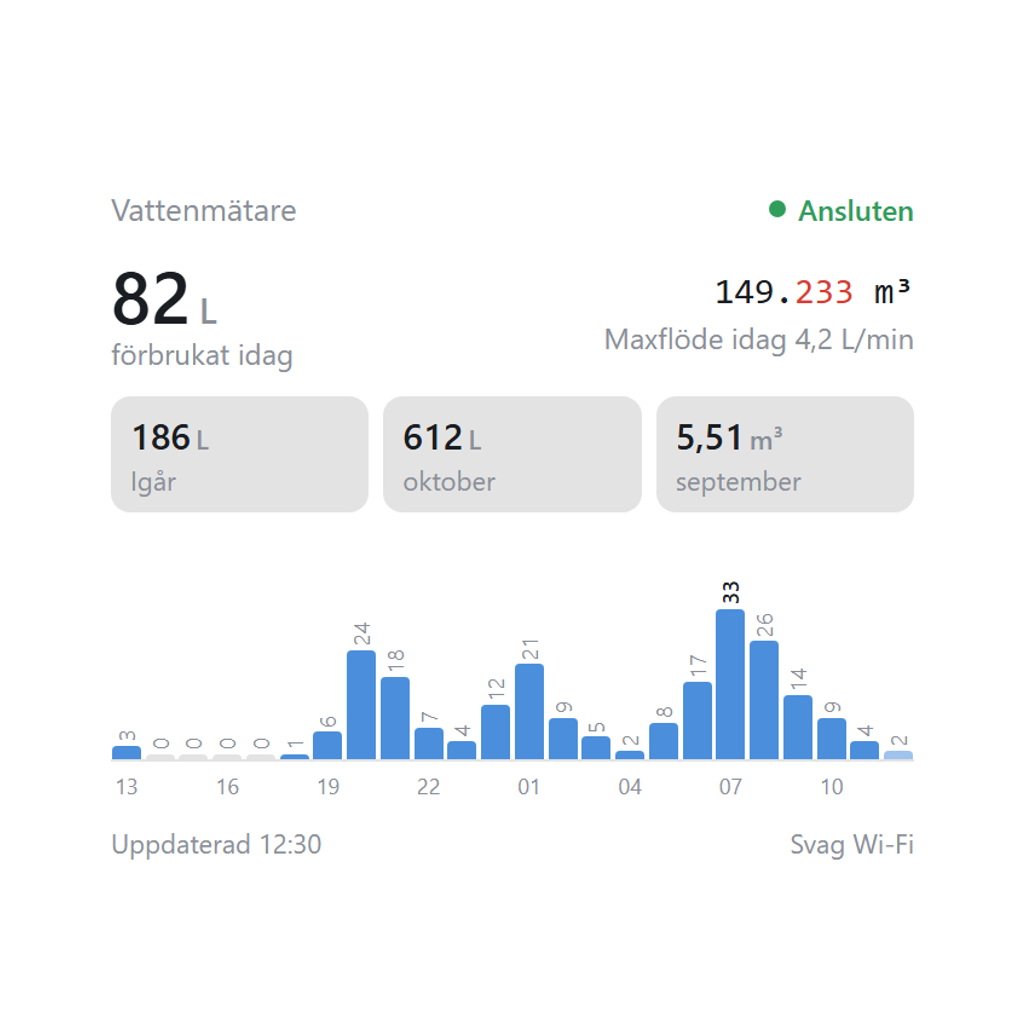
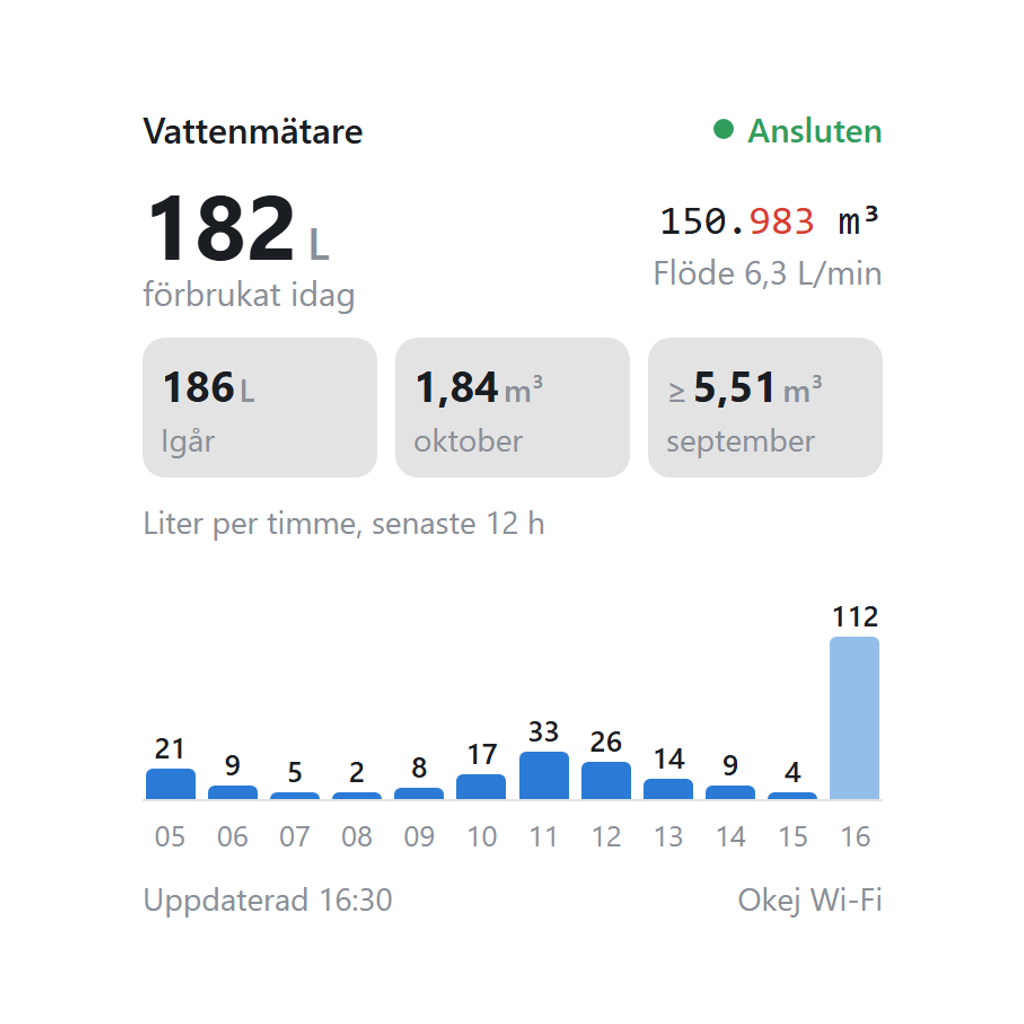
Widget: larger text and last 12 hours
Make the widget easier to read on the dashboard: bigger text throughout,
and the hourly chart now shows the last 12 hours with each value written
upright above its bar and every hour labelled.

diff --git a/widgets/water-meter/public/index.html b/widgets/water-meter/public/index.html
@@ -15,37 +15,39 @@
         padding: 2px 4px;
       }
       .wm-head, .wm-main, .wm-foot { display: flex; justify-content: space-between; align-items: center; gap: 8px; }
-      .wm-name { font-size: 13px; color: var(--wm-muted); white-space: nowrap; overflow: hidden; text-overflow: ellipsis; }
-      .wm-status { font-size: 12px; font-weight: 600; display: inline-flex; align-items: center; gap: 5px; white-space: nowrap; }
-      .wm-status::before { content: ""; width: 7px; height: 7px; border-radius: 50%; background: currentColor; }
+      .wm-name { font-size: 16px; font-weight: 500; white-space: nowrap; overflow: hidden; text-overflow: ellipsis; }
+      .wm-status { font-size: 15px; font-weight: 600; display: inline-flex; align-items: center; gap: 6px; white-space: nowrap; }
+      .wm-status::before { content: ""; width: 9px; height: 9px; border-radius: 50%; background: currentColor; }
       .wm-status.ok { color: var(--wm-ok); }
       .wm-status.warn { color: var(--wm-warn); }
       .wm-status.bad { color: var(--wm-bad); }
       .wm-today { display: grid; }
-      .wm-big { font-size: 30px; font-weight: 600; line-height: 1.1; font-variant-numeric: tabular-nums; }
-      .wm-big small { font-size: 15px; font-weight: 500; color: var(--wm-muted); margin-left: 3px; }
-      .wm-label { font-size: 12px; color: var(--wm-muted); }
+      .wm-big { font-size: 40px; font-weight: 700; line-height: 1.05; font-variant-numeric: tabular-nums; }
+      .wm-big small { font-size: 20px; font-weight: 500; color: var(--wm-muted); margin-left: 4px; }
+      .wm-label { font-size: 15px; color: var(--wm-muted); }
       .wm-side { display: grid; justify-items: end; gap: 2px; text-align: right; }
-      .wm-total { font-family: ui-monospace, "SF Mono", Menlo, Consolas, monospace; font-size: 15px; font-variant-numeric: tabular-nums; }
+      .wm-total { font-family: ui-monospace, "SF Mono", Menlo, Consolas, monospace; font-size: 18px; font-variant-numeric: tabular-nums; }
       .wm-total .red { color: var(--wm-bad); }
 
-      .wm-periods { display: grid; grid-template-columns: repeat(3, minmax(0, 1fr)); gap: 6px; }
-      .wm-period { display: grid; gap: 1px; padding: 6px 8px; border-radius: 8px; background: var(--wm-line); min-width: 0; }
-      .wm-period b { font-size: 15px; font-weight: 600; font-variant-numeric: tabular-nums; white-space: nowrap; }
-      .wm-period b small { font-size: 11px; font-weight: 500; color: var(--wm-muted); margin-left: 2px; }
-      .wm-period span { font-size: 11px; color: var(--wm-muted); white-space: nowrap; overflow: hidden; text-overflow: ellipsis; }
+      .wm-periods { display: grid; grid-template-columns: repeat(3, minmax(0, 1fr)); gap: 8px; }
+      .wm-period { display: grid; gap: 2px; padding: 8px 8px; border-radius: 10px; background: var(--wm-line); min-width: 0; }
+      .wm-period b { font-size: 19px; font-weight: 700; font-variant-numeric: tabular-nums; white-space: nowrap; }
+      .wm-period b small { font-size: 14px; font-weight: 500; color: var(--wm-muted); margin-left: 2px; }
+      .wm-period b small.wm-min, .wm-big small.wm-min { margin: 0 2px 0 0; }
+      .wm-period span { font-size: 14px; color: var(--wm-muted); white-space: nowrap; overflow: hidden; text-overflow: ellipsis; }
 
-      .wm-chart { display: flex; align-items: stretch; gap: 1px; height: 92px; border-bottom: 1px solid var(--wm-line); }
-      .wm-col { flex: 1; min-width: 0; display: flex; flex-direction: column; justify-content: flex-end; align-items: center; gap: 2px; }
-      .wm-col em { font-style: normal; font-size: 9px; line-height: 1; color: var(--wm-muted); font-variant-numeric: tabular-nums; writing-mode: vertical-rl; transform: rotate(180deg); }
-      .wm-col.peak em { color: var(--wm-text); font-weight: 600; }
-      .wm-col i { display: block; width: 100%; max-width: 12px; background: var(--wm-accent); border-radius: 2px 2px 0 0; opacity: 0.85; }
-      .wm-col i.zero { background: var(--wm-line); opacity: 1; }
-      .wm-col.now i { opacity: 0.45; }
-      .wm-hours { display: flex; gap: 1px; margin-top: -6px; }
-      .wm-hours span { flex: 1; min-width: 0; text-align: center; font-size: 9px; color: var(--wm-muted); font-variant-numeric: tabular-nums; }
-      .wm-foot { font-size: 11px; color: var(--wm-muted); }
-      .wm-empty { font-size: 13px; color: var(--wm-muted); text-align: center; padding: 40px 8px; }
+      .wm-chart-title { font-size: 14px; color: var(--wm-muted); }
+      .wm-chart { display: flex; align-items: stretch; gap: 3px; height: 104px; border-bottom: 1px solid var(--wm-line); }
+      .wm-col { flex: 1; min-width: 0; display: flex; flex-direction: column; justify-content: flex-end; align-items: center; gap: 3px; }
+      .wm-col em { font-style: normal; font-size: 13px; line-height: 1; font-weight: 600; font-variant-numeric: tabular-nums; white-space: nowrap; }
+      .wm-col em.zero { color: var(--wm-muted); font-weight: 400; }
+      .wm-col i { display: block; width: 100%; max-width: 22px; background: var(--wm-accent); border-radius: 3px 3px 0 0; }
+      .wm-col i.zero { background: var(--wm-line); }
+      .wm-col.now i { opacity: 0.5; }
+      .wm-hours { display: flex; gap: 3px; margin-top: -4px; }
+      .wm-hours span { flex: 1; min-width: 0; text-align: center; font-size: 13px; color: var(--wm-muted); font-variant-numeric: tabular-nums; }
+      .wm-foot { font-size: 14px; color: var(--wm-muted); }
+      .wm-empty { font-size: 16px; color: var(--wm-muted); text-align: center; padding: 40px 8px; }
     </style>
   </head>
 
@@ -60,7 +62,7 @@
           today: 'used today', flow: 'Flow', maxFlow: 'Max flow today',
           yesterday: 'Yesterday', thisMonth: 'This month', lastMonth: 'Last month', partial: 'partial',
           online: 'Online', offline: 'Offline', noDevice: 'Add a wimbib device to see your water use.',
-          noData: 'Hourly use appears after the first full hour.', updated: 'Updated', perHour: 'L per hour',
+          noData: 'Hourly use appears after the first full hour.', updated: 'Updated', perHour: 'Litres per hour, last 12 h',
           alarm: { leak: 'Leak alarm', burst: 'Burst alarm', dry: 'Dry alarm', reverse: 'Reverse flow' },
           signal: { good: 'Good Wi-Fi', fair: 'Fair Wi-Fi', weak: 'Weak Wi-Fi', poor: 'Poor Wi-Fi' },
         },
@@ -68,7 +70,7 @@
           today: 'förbrukat idag', flow: 'Flöde', maxFlow: 'Maxflöde idag',
           yesterday: 'Igår', thisMonth: 'Denna månad', lastMonth: 'Förra månaden', partial: 'ofullständig',
           online: 'Ansluten', offline: 'Ej ansluten', noDevice: 'Lägg till en wimbib-enhet för att se din vattenförbrukning.',
-          noData: 'Förbrukning per timme visas efter första hela timmen.', updated: 'Uppdaterad', perHour: 'L per timme',
+          noData: 'Förbrukning per timme visas efter första hela timmen.', updated: 'Uppdaterad', perHour: 'Liter per timme, senaste 12 h',
           alarm: { leak: 'Läcklarm', burst: 'Spricklarm', dry: 'Torrlarm', reverse: 'Backflöde' },
           signal: { good: 'Bra Wi-Fi', fair: 'Okej Wi-Fi', weak: 'Svag Wi-Fi', poor: 'Dålig Wi-Fi' },
         },
@@ -103,7 +105,7 @@
       // Volume with unit; a partial period (not seen from its start) is shown as "at least"
       function volume(p) {
         if (!p || p.litres == null) return '–';
-        const prefix = p.partial ? '≥ ' : '';
+        const prefix = p.partial ? '<small class="wm-min">≥</small>' : '';
         if (p.litres >= 1000) return prefix + fmt(p.litres / 1000, 2) + '<small>m³</small>';
         return prefix + fmt(p.litres, 0) + '<small>L</small>';
       }
@@ -121,16 +123,16 @@
 
       function chart(hourly) {
         const max = Math.max(1, ...hourly.map((h) => h.litres));
-        const peak = hourly.reduce((a, b) => (b.litres > a.litres ? b : a), hourly[0]);
         const cols = hourly.map((h, i) => {
-          const cls = 'wm-col' + (i === hourly.length - 1 ? ' now' : '') + (h === peak && h.litres > 0 ? ' peak' : '');
-          const height = Math.max(2, (h.litres / max) * 62);
-          return '<div class="' + cls + '" title="' + clock(Date.parse(h.t)) + ' · ' + h.litres + ' L">'
-            + '<em>' + h.litres + '</em>'
-            + '<i class="' + (h.litres === 0 ? 'zero' : '') + '" style="height:' + height + 'px"></i></div>';
+          const zero = h.litres === 0 ? 'zero' : '';
+          const height = Math.max(3, (h.litres / max) * 72);
+          return '<div class="wm-col' + (i === hourly.length - 1 ? ' now' : '') + '" title="' + clock(Date.parse(h.t)) + ' · ' + h.litres + ' L">'
+            + '<em class="' + zero + '">' + h.litres + '</em>'
+            + '<i class="' + zero + '" style="height:' + height + 'px"></i></div>';
         }).join('');
-        const hours = hourly.map((h, i) => '<span>' + (i % 3 === 0 ? hour(Date.parse(h.t)) : '') + '</span>').join('');
-        return '<div class="wm-chart" aria-label="' + t.perHour + '">' + cols + '</div><div class="wm-hours">' + hours + '</div>';
+        const hours = hourly.map((h) => '<span>' + hour(Date.parse(h.t)) + '</span>').join('');
+        return '<div class="wm-chart-title">' + t.perHour + '</div>'
+          + '<div class="wm-chart">' + cols + '</div><div class="wm-hours">' + hours + '</div>';
       }
 
       function render() {
@@ -143,7 +145,7 @@
         const flowRow = d.flow != null
           ? t.flow + ' ' + fmt(d.flow, 1) + ' L/min'
           : (d.maxFlowDay != null ? t.maxFlow + ' ' + fmt(d.maxFlowDay, 1) + ' L/min' : '');
-        const hourly = (d.hourly || []).slice(-24);
+        const hourly = (d.hourly || []).slice(-12);
 
         root.innerHTML = ''
           + '<div class="wm-head"><span class="wm-name">' + esc(d.name) + '</span><span class="wm-status ' + s.cls + '">' + esc(s.text) + '</span></div>'
